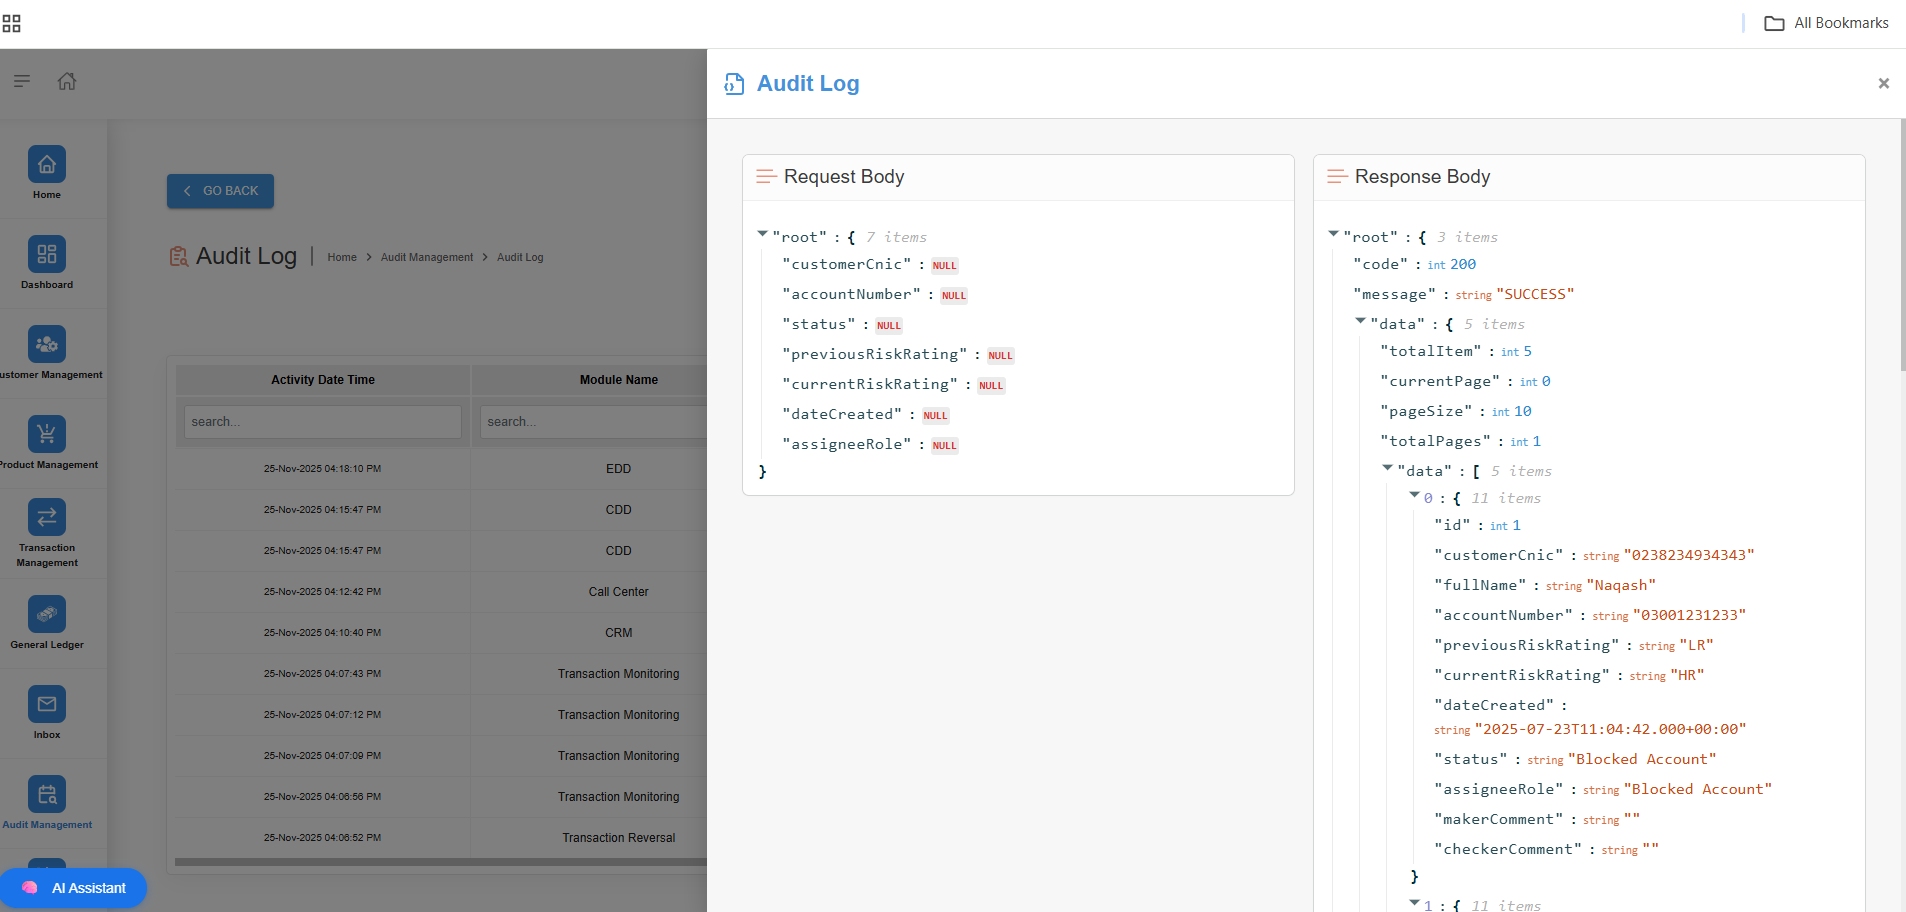
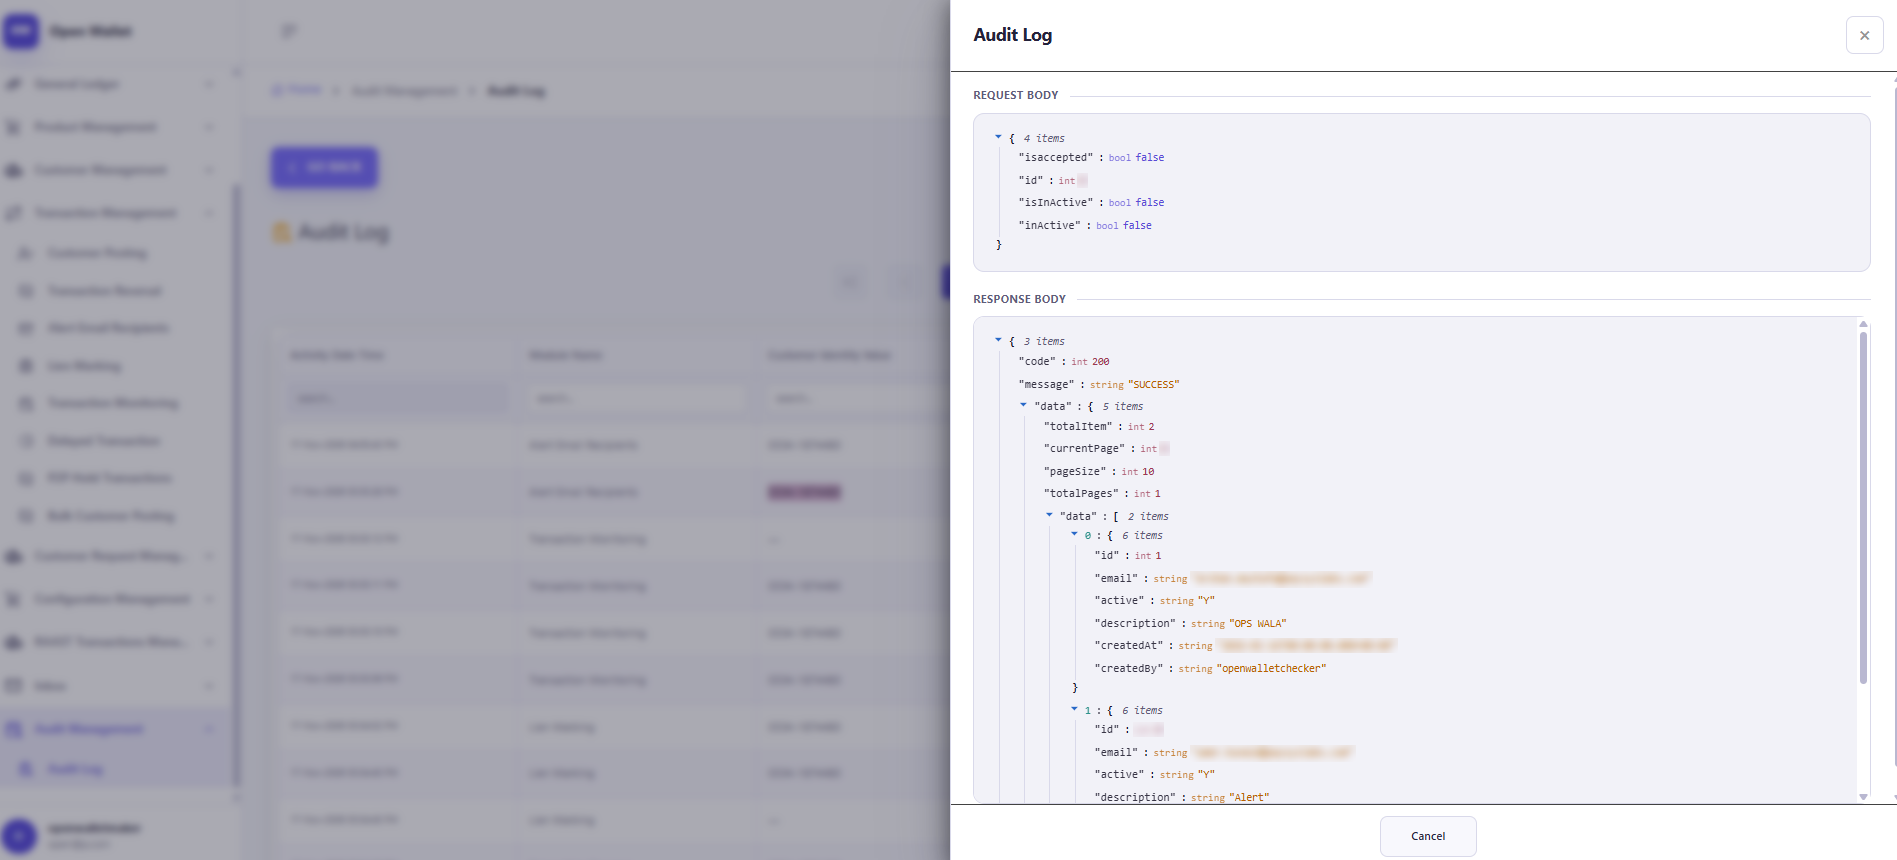
Make functional spec diagrams generic

diff --git a/sidebars.ts b/sidebars.ts
@@ -87,9 +87,11 @@ const sidebars: SidebarsConfig = {
       label: 'Transaction Management',
       items: [
         'backoffice/transaction-management/customer-posting',
+        'backoffice/transaction-management/bulk-customer-posting',
         'backoffice/transaction-management/transaction-reversal',
         'backoffice/transaction-management/lien-marking',
         'backoffice/transaction-management/transaction-monitoring',
+        'backoffice/transaction-management/alerts-email-recipients',
       ],
     },
     {
@@ -100,6 +102,14 @@ const sidebars: SidebarsConfig = {
         'backoffice/customer-management/call-center',
         'backoffice/customer-management/customer-due-diligence',
         'backoffice/customer-management/enhanced-due-diligence',
+      ],
+    },
+    {
+      type: 'category',
+      label: 'Configuration Management',
+      items: [
+        'backoffice/configuration-management/configurations',
+        'backoffice/configuration-management/configurable-tms-scenarios',
       ],
     },
     {

diff --git a/docs/backoffice/configuration-management/configurable-tms-scenarios.md b/docs/backoffice/configuration-management/configurable-tms-scenarios.md
@@ -1,0 +1,60 @@
+---
+title: Configurable TMS Scenarios
+sidebar_label: Configurable TMS Scenarios
+---
+
+# Configurable TMS Scenarios
+
+The **Configurable TMS Scenarios** screen lets the institution manage the rules used by the Transaction Monitoring System (TMS). Each scenario describes a suspicious pattern. When a customer's transactions match an active scenario, an alert is raised in [Transaction Monitoring](/docs/backoffice/transaction-management/transaction-monitoring).
+
+![Configurable TMS Scenarios](/img/tms-scenarios.png)
+
+---
+
+## 📋 Scenario Listing
+
+Each row in the table represents one scenario:
+
+| Column | Description |
+| ------ | ----------- |
+| **TMS Category** | The group the scenario belongs to: **Behavioral Pattern** (unusual activity patterns) or **Value-Based** (amount thresholds). |
+| **TMS Scenarios** | The name of the scenario, e.g. *Many-to-One Transfers* or *Transaction Splitting / Smurfing*. |
+| **TMS Rules** | The condition that triggers an alert. |
+| **Frequency** | The number of occurrences needed to trigger the alert, where applicable. |
+| **Time Limit** | The time window in which the occurrences are counted, e.g. *1 Day* or *2 Hours*. |
+| **Actions** | A toggle to make the scenario **Active** or **Inactive**. |
+
+Every column has a search box, so you can quickly filter scenarios.
+
+---
+
+## 🔍 Available Scenarios
+
+**Behavioral Pattern**
+
+- **Many-to-One Transfers:** several unique senders transferring to the same account within a short period.
+- **One-to-Many Transfers:** one account sending funds to several unique recipients within a short period.
+- **Round-Tripping / Rapid In-Out:** funds moving in and out of an account repeatedly within minutes.
+- **Abnormal Transaction Frequency:** more transactions per hour than normal.
+- **Dormant to Active Spike:** activity on an account that has been inactive for a long time.
+
+**Value-Based**
+
+- **Transaction Splitting / Smurfing:** several transactions just below a reporting threshold.
+- **Exceeding Threshold Limits:** a single transaction above an internal or regulatory limit.
+- **Low Value:** many very small transactions within a week.
+
+---
+
+## ⚙ Activating and Deactivating Scenarios
+
+- Switch the toggle to **Active** to start monitoring a scenario, or to **Inactive** to stop raising alerts for it.
+- Deactivating a scenario does not remove alerts that it has already raised.
+- Use **Frequency** and **Time Limit** to tune how sensitive each scenario is.
+
+---
+
+## 📝 Notes
+
+- People listed in [Alerts Email Recipients](/docs/backoffice/transaction-management/alerts-email-recipients) are notified whenever an alert is raised.
+- All changes are recorded in the [Audit Log](/docs/backoffice/audit-management).

diff --git a/docs/backoffice/configuration-management/configurations.md b/docs/backoffice/configuration-management/configurations.md
@@ -1,0 +1,42 @@
+---
+title: Configurations
+sidebar_label: Configurations
+---
+
+# Configurations
+
+The **Configurations** screen holds system-wide settings that control customer incentives and back-office jobs. Each setting is either switched on or off with a toggle, or set with a value. Changes take effect once you click **Save Configuration**.
+
+![Configurations](/img/configurations.png)
+
+---
+
+## ⚙ Available Settings
+
+| Setting | Type | What it controls |
+| ------- | ---- | ---------------- |
+| **Referral** | Toggle | When active, a referral bonus is awarded to **both** the referrer and the referee. |
+| **SAP Job** | Toggle | When active, GL postings are sent to the SAP (ERP) system through the scheduled posting job. |
+| **Account Opening Bonus** | Toggle | When active, eligible customers receive a bonus when they open an account. |
+| **Account Opening Bonus Amount** | Value | The bonus amount credited to each eligible new customer. |
+| **Account Opening Bonus Max User Cap** | Value | The total number of customers who can receive the account opening bonus. |
+
+---
+
+## 🎁 How the Account Opening Bonus Cap Works
+
+The **Max User Cap** is a running total, not a per-period limit:
+
+1. Each time a customer receives the account opening bonus, the count of bonus recipients goes up by one.
+2. When the count reaches the **Max User Cap**, the system **stops** giving the account opening bonus, even though the **Account Opening Bonus** toggle is still active.
+3. To resume the bonus, increase the **Max User Cap**. Because the count already includes everyone who has received the bonus, the new cap must be the number already reached **plus** the number of additional customers you want to reward.
+
+**Example:** The cap is set to **10,000** and has been reached. To give the bonus to **2,000** more customers, update the cap to **12,000**. Setting it to 2,000 would have no effect, because the count is already above that number.
+
+---
+
+## 📝 Notes
+
+- Referral bonuses apply only to products whose product group allows referrals (see **Is Referral Allowed?** in [Product Group Setup](/docs/backoffice/product-management/product-group)).
+- All changes are recorded in the [Audit Log](/docs/backoffice/audit-management).
+- Only users with the right privileges can change configurations.

diff --git a/docs/backoffice/transaction-management/bulk-customer-posting.md b/docs/backoffice/transaction-management/bulk-customer-posting.md
@@ -1,0 +1,55 @@
+---
+title: Bulk Customer Posting
+sidebar_label: Bulk Customer Posting
+---
+
+# Bulk Customer Posting
+
+The **Bulk Customer Posting** module works like [Customer Posting](/docs/backoffice/transaction-management/customer-posting), but lets you post to many customer accounts at once by uploading a file instead of posting to each customer one by one.
+
+![Bulk Customer Posting](/img/bulk-customer-posting.png)
+
+---
+
+## 📤 How It Works
+
+1. Click **Add Bulk Customer Posting**.
+2. Choose the transaction type for the file: **Credit In** (credit customer accounts) or **Credit Out** (debit customer accounts).
+3. Upload a file listing the customers and the amount to post to each one.
+4. Submit the request for approval.
+
+Each file holds **one transaction type only**. To credit some customers and debit others, upload two separate files.
+
+---
+
+## 📋 Bulk Posting Listing
+
+The listing shows every uploaded file and its progress:
+
+| Column | Description |
+| ------ | ----------- |
+| **File Name** | The name of the uploaded file. |
+| **File Size** | The size of the file. |
+| **Total Count** | The number of customer records in the file. |
+| **Transaction** | The transaction type applied to the file: **Credit In** or **Credit Out**. |
+| **Created By** | The user who uploaded the file. |
+| **Created Date** | When the file was uploaded. |
+| **Status** | The approval status, e.g. **Approved** or **Rejected**. |
+
+You can filter the list by file name, transaction type, created date and status.
+
+---
+
+## ✅ What This Module Enables
+
+- Post the same kind of entry to many accounts in one step, e.g. bonus payouts, refunds or bulk adjustments
+- Reduce manual effort and data-entry errors
+- Keep each upload under maker–checker approval
+
+---
+
+## 📝 Notes
+
+- A file is posted only after it is **approved**. Rejected files are not posted.
+- All actions are recorded in the [Audit Log](/docs/backoffice/audit-management).
+- Only users with the right privileges can upload or approve bulk postings.

diff --git a/docs/backoffice/product-management/product-group.md b/docs/backoffice/product-management/product-group.md
@@ -80,6 +80,32 @@ Indicates whether the product group supports referral-based onboarding programs.
 
 ---
 
+### **9. Customer Identity Inclusive**
+Controls whether a customer's **identity number** can be shared between this product group and other product groups.
+
+---
+
+### **10. Mobile Number Inclusive**
+Controls whether a customer's **mobile number** can be shared between this product group and other product groups.
+
+---
+
+### **11. Email Inclusive**
+Controls whether a customer's **email address** can be shared between this product group and other product groups.
+
+---
+
+#### How the Inclusive settings work
+
+| Setting | Effect |
+| ------- | ------ |
+| **No** (exclusive) | A customer whose identity number, mobile number or email (as applicable) is already registered against a product in **any other product group** cannot be onboarded to this product group. Likewise, a value registered in this product group cannot be used to onboard to a product in another product group. |
+| **Yes** (inclusive) | The same identity number, mobile number or email can be used across this product group and other product groups, so one customer can hold products in more than one group. |
+
+Each setting is applied independently. For example, a group can require a unique identity number (**Customer Identity Inclusive = No**) while still allowing a mobile number that is already used elsewhere (**Mobile Number Inclusive = Yes**).
+
+---
+
 # 🔎 How Product Groups Operate
 
 Each product level inside a group has its own:

diff --git a/docs/backoffice/transaction-management/alerts-email-recipients.md b/docs/backoffice/transaction-management/alerts-email-recipients.md
@@ -1,0 +1,33 @@
+---
+title: Alerts Email Recipients
+sidebar_label: Alerts Email Recipients
+---
+
+# Alerts Email Recipients
+
+The **Alerts Email Recipients** module manages the list of people who are emailed whenever [Transaction Monitoring](/docs/backoffice/transaction-management/transaction-monitoring) raises an alert. Typically these are the institution's fraud, risk and compliance contacts, who need to know about suspicious activity as soon as it is detected.
+
+---
+
+## ✉ Adding a Recipient
+
+For each recipient, enter:
+
+- **Email:** the address that will receive alert notifications.
+- **Description:** a short note on who the recipient is, e.g. *Fraud Team* or *Compliance Officer*.
+- **Status:** **Active** recipients receive notifications. Set a recipient to inactive to pause their notifications without deleting them.
+
+---
+
+## 🔔 How Notifications Work
+
+1. A customer's transactions match an active scenario in [Configurable TMS Scenarios](/docs/backoffice/configuration-management/configurable-tms-scenarios).
+2. Transaction Monitoring raises an alert.
+3. Every **active** recipient on this list receives an email about the alert, so they can review it promptly.
+
+---
+
+## 📝 Notes
+
+- Keep the list up to date when team members change, so that alerts always reach the right people.
+- Adding, changing or removing recipients is recorded in the [Audit Log](/docs/backoffice/audit-management).

diff --git a/src/pages/overview/index.md b/src/pages/overview/index.md
@@ -153,14 +153,14 @@ Supports closures due to customer request, deceased status, or regulatory requir
 Supported via **OpenConnect**:
 
 - AML/CFT  
-- NADRA VeriSys / BVS  
+- National Identity Verification Service (identity and biometric verification)  
 - PMD  
 - SMS / Email  
 - CMS  
 - Domestic Instant Payment System (IPS)  
 - Domestic Payment Switch – Bill Payment Service  
 - Domestic Payment Switch – Authentication Service  
-- NADRA eSahulat  
+- National Identity Verification Service (e-services)  
 
 Supports REST, SOAP, ISO8583, ISO20022 with consistent CBA protocol.
 

diff --git a/docs/backoffice/product-management/kyc-group.md b/docs/backoffice/product-management/kyc-group.md
@@ -80,7 +80,7 @@ Each check can be configured as
 Supported verification types:
 
 - Biometric Verification  
-- Verisys / NADRA Check  
+- National Identity Verification Service check  
 - Email OTP  
 - SMS OTP 
 - AML Screening 
